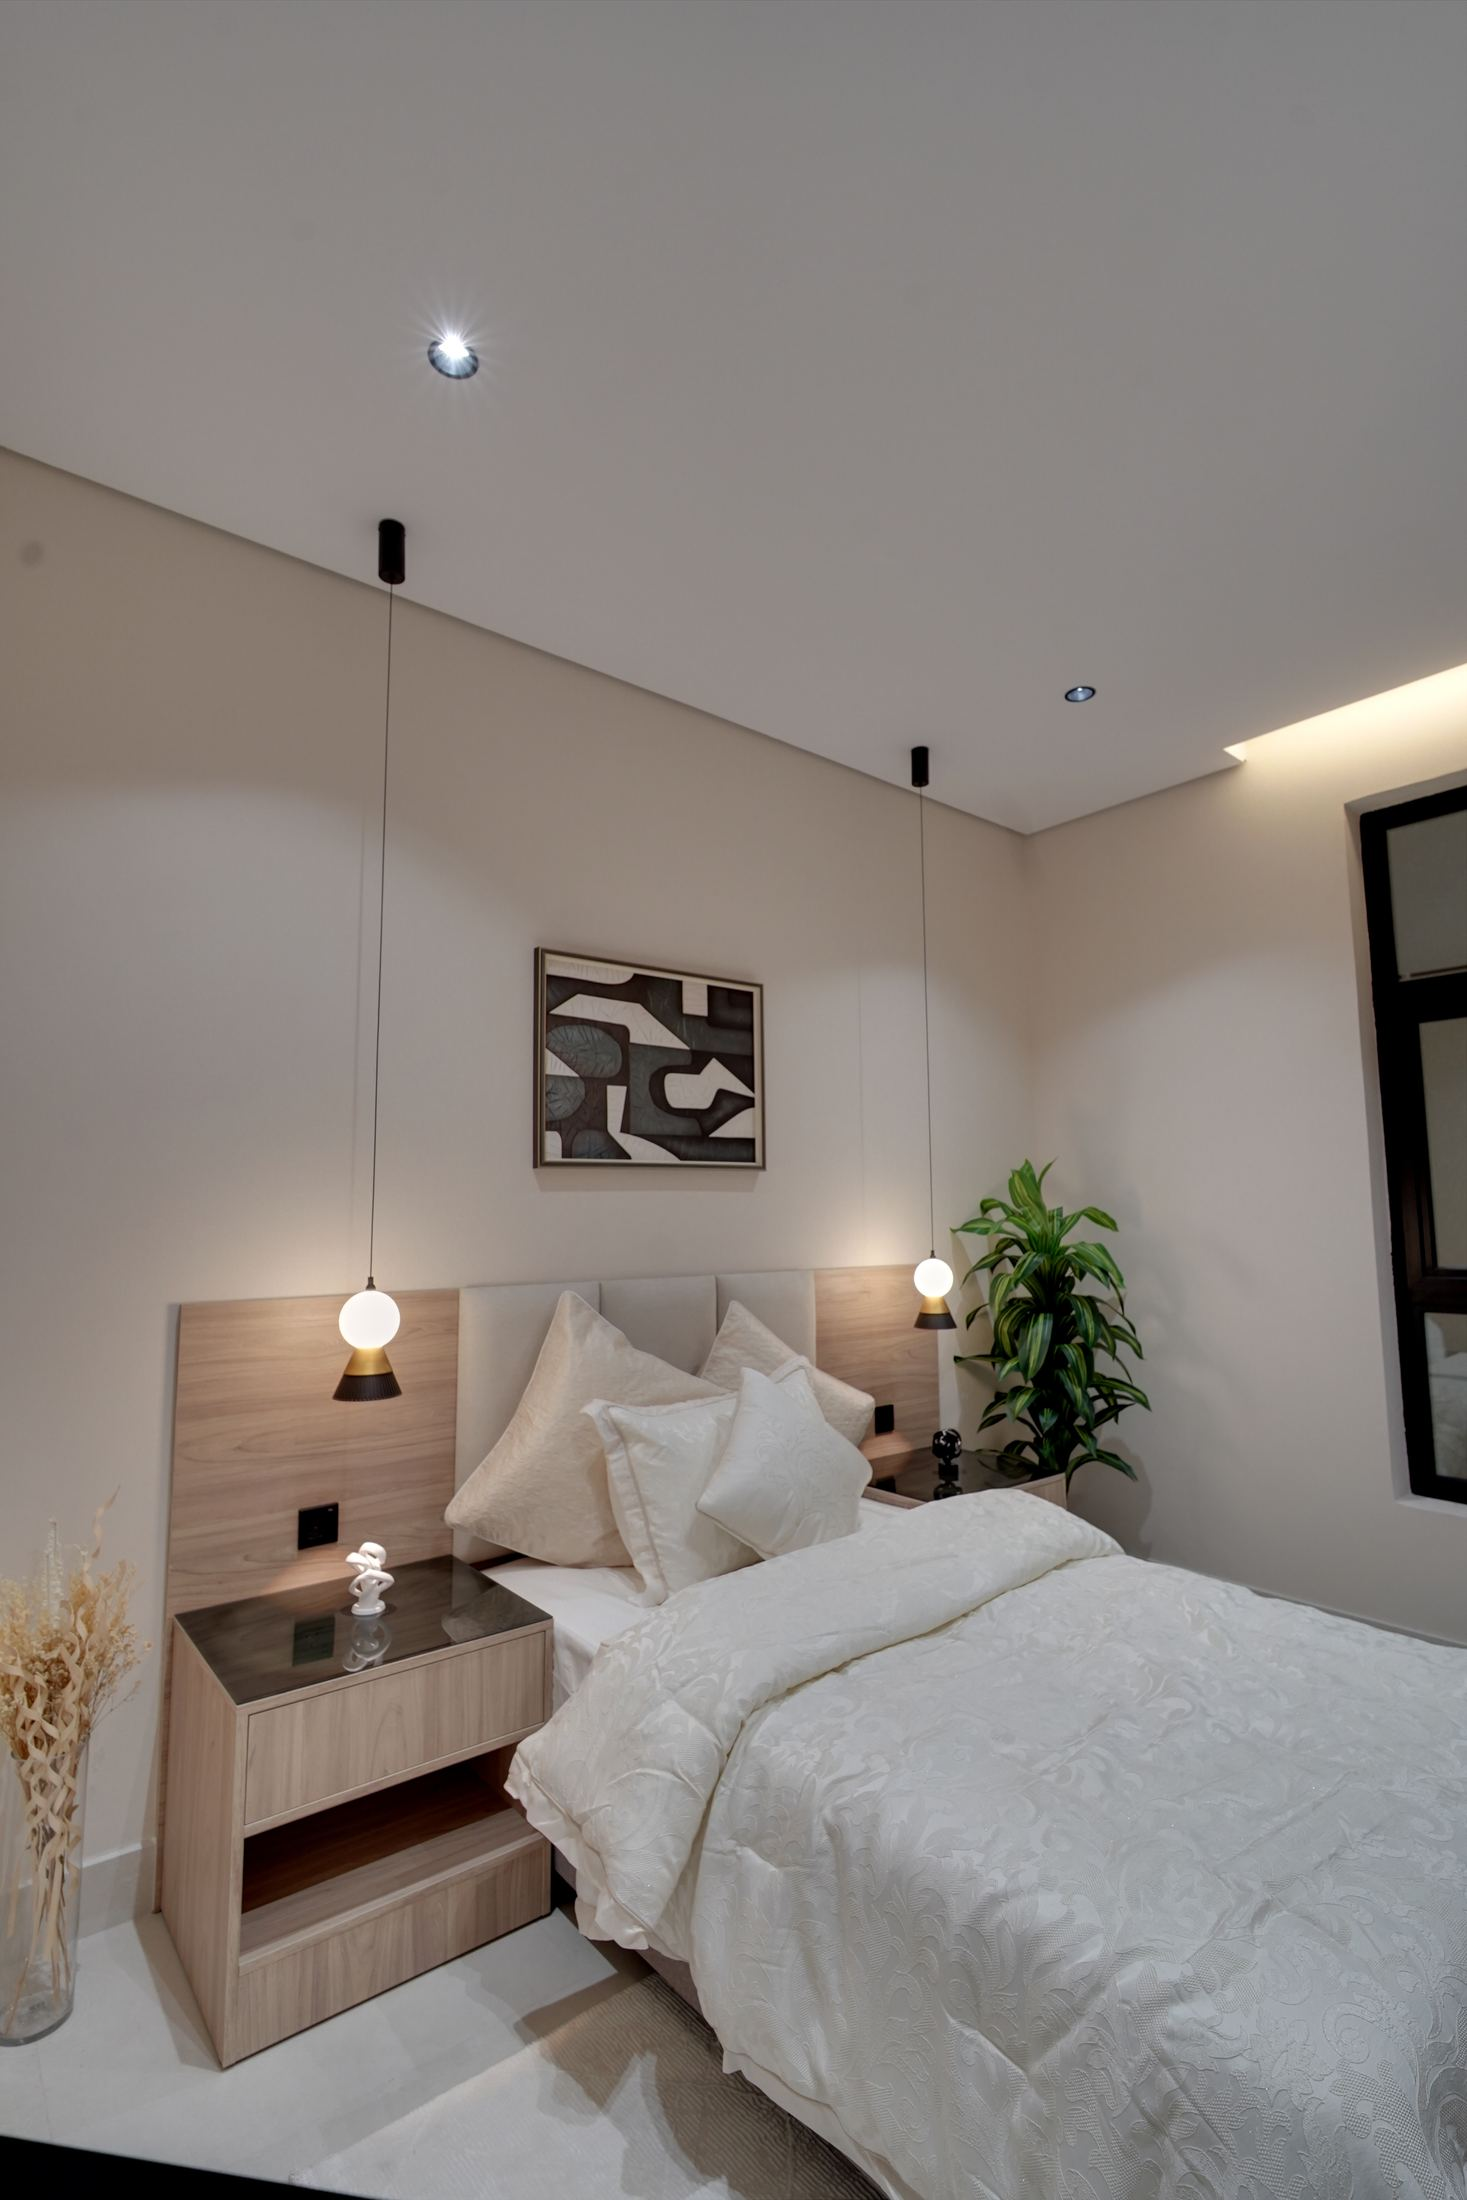
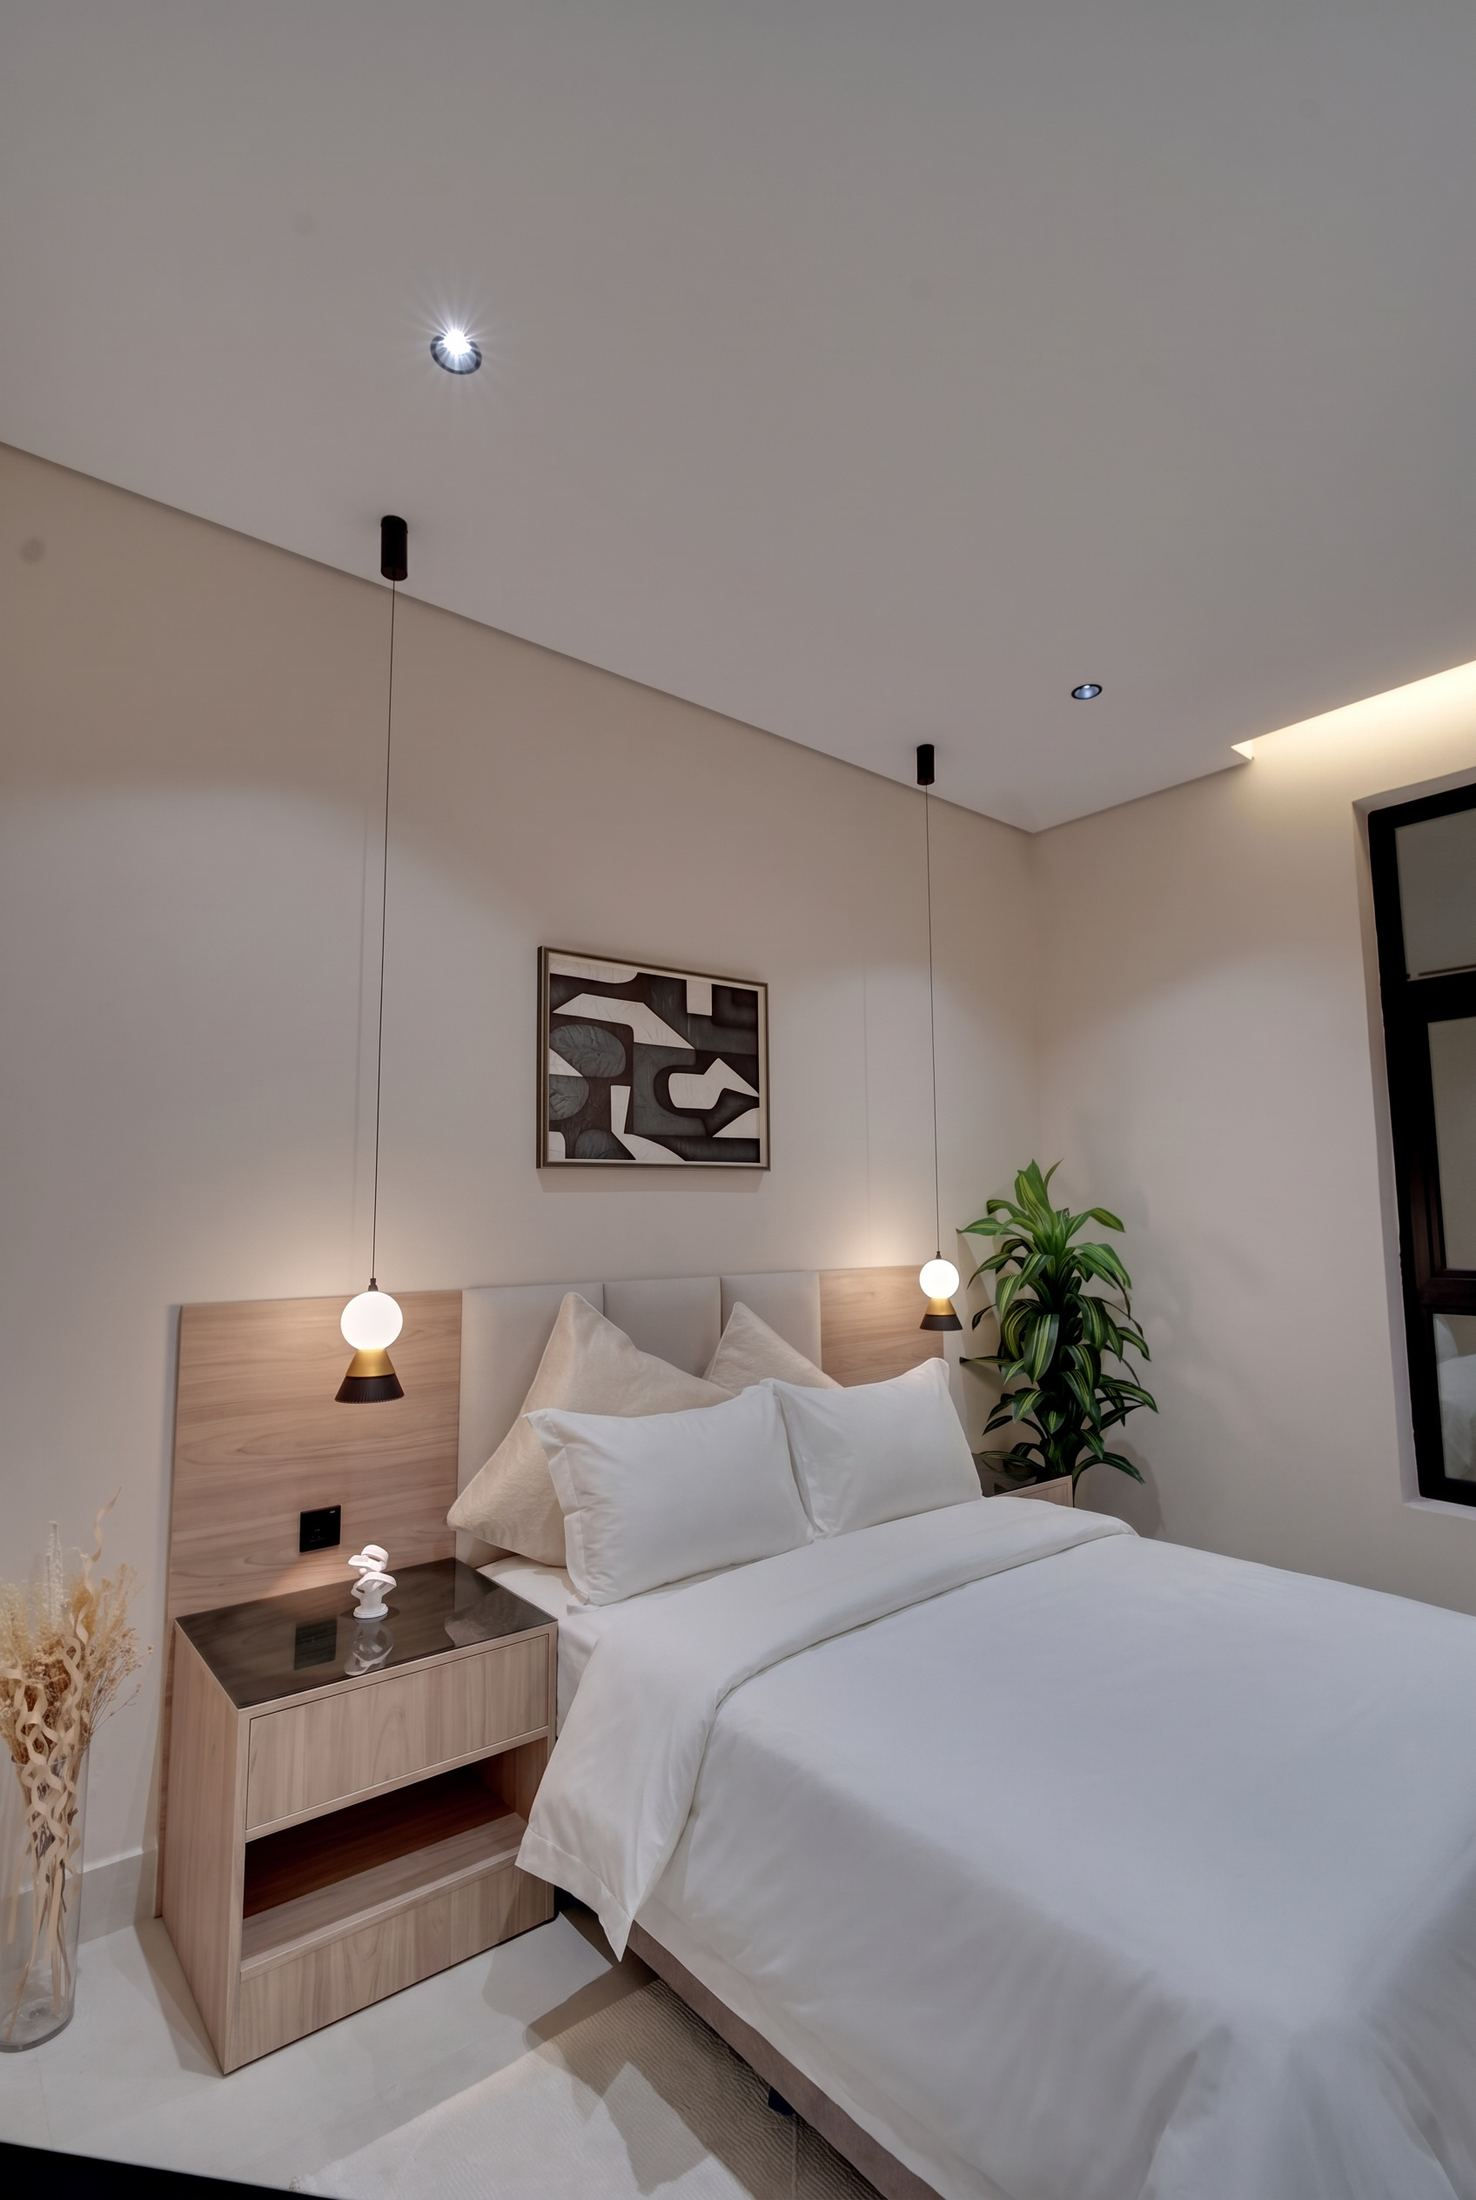
Showcase: retouched bedrooms, reflections removed, duplicate close-up dropped
Claude-Session: https://claude.ai/code/session_01J13UHcxeJzmpejdaqPJTwN

diff --git a/joharat-taibah/index.html b/joharat-taibah/index.html
@@ -489,8 +489,8 @@ html[data-lang="en"] .film-copy .versions{direction:rtl}
       <div class="fr"><img src="img/2216-m.jpg" srcset="img/2216-m.jpg 800w, img/2216.jpg 1467w" sizes="(max-width:760px) 100vw, 60vh" width="1467" height="2200" alt="تفاصيل" loading="lazy" decoding="async"></div>
       <figcaption><span class="c">In Close-up</span><span class="ar">تفاصيل</span></figcaption>
     </figure>
-    <div class="thumbs rv"><button class="th" type="button" data-open="2222" aria-label="تفاصيل"><img src="img/2222-m.jpg" width="800" height="1200" alt="" loading="lazy" decoding="async"></button><button class="th" type="button" data-open="2219" aria-label="تفاصيل"><img src="img/2219-m.jpg" width="800" height="1200" alt="" loading="lazy" decoding="async"></button><button class="th" type="button" data-open="2225" aria-label="تفاصيل"><img src="img/2225-m.jpg" width="800" height="1200" alt="" loading="lazy" decoding="async"></button><button class="th" type="button" data-open="2228" aria-label="تفاصيل"><img src="img/2228-m.jpg" width="800" height="1200" alt="" loading="lazy" decoding="async"></button><button class="th" type="button" data-open="2234" aria-label="تفاصيل"><img src="img/2234-m.jpg" width="800" height="1200" alt="" loading="lazy" decoding="async"></button><button class="th" type="button" data-open="g:closeup" aria-label="تفاصيل"><img src="img/2237-m.jpg" width="800" height="1200" alt="" loading="lazy" decoding="async"><span class="more">+12</span></button></div>
-    <button class="viewall rv" type="button" data-open="g:closeup"><span class="t-ar">للتكملة اضغط هنا · عرض كل الصور (18)</span><span class="t-en lat">View all 18 photographs</span><svg viewBox="0 0 9 14" aria-hidden="true"><path d="M4.5 0v13M.5 9l4 4 4-4"/></svg></button>
+    <div class="thumbs rv"><button class="th" type="button" data-open="2222" aria-label="تفاصيل"><img src="img/2222-m.jpg" width="800" height="1200" alt="" loading="lazy" decoding="async"></button><button class="th" type="button" data-open="2219" aria-label="تفاصيل"><img src="img/2219-m.jpg" width="800" height="1200" alt="" loading="lazy" decoding="async"></button><button class="th" type="button" data-open="2225" aria-label="تفاصيل"><img src="img/2225-m.jpg" width="800" height="1200" alt="" loading="lazy" decoding="async"></button><button class="th" type="button" data-open="2228" aria-label="تفاصيل"><img src="img/2228-m.jpg" width="800" height="1200" alt="" loading="lazy" decoding="async"></button><button class="th" type="button" data-open="2234" aria-label="تفاصيل"><img src="img/2234-m.jpg" width="800" height="1200" alt="" loading="lazy" decoding="async"></button><button class="th" type="button" data-open="g:closeup" aria-label="تفاصيل"><img src="img/2237-m.jpg" width="800" height="1200" alt="" loading="lazy" decoding="async"><span class="more">+11</span></button></div>
+    <button class="viewall rv" type="button" data-open="g:closeup"><span class="t-ar">للتكملة اضغط هنا · عرض كل الصور (17)</span><span class="t-en lat">View all 17 photographs</span><svg viewBox="0 0 9 14" aria-hidden="true"><path d="M4.5 0v13M.5 9l4 4 4-4"/></svg></button>
   </div>
   <div class="ed pause">
     <div class="tx rv">
@@ -665,7 +665,7 @@ html[data-lang="en"] .film-copy .versions{direction:rtl}
 </div>
 
 <script>
-const GALLERY=[{"id": "arrival", "en": "The Arrival", "ar": "الوصول", "items": [[2447, "The Ensemble", "الواجهات ليلًا"], [2027, "The Arrival", "المدخل"], [2435, "The Street", "الواجهة"], [2006, "Night Entrance", "المدخل ليلًا"], [2012, "The Gate", "البوابة"], [2021, "The Front Garden", "الحديقة الأمامية"], [2030, "Outdoor Seating", "الجلسة الخارجية"]]}, {"id": "living", "en": "Living Spaces", "ar": "المعيشة", "items": [[2072, "The Guest Lounge", "مجلس الضيوف"], [2417, "Dining", "غرفة الطعام"], [2063, "Living", "الصالة"], [2195, "Upper Lounge", "الجلسة العلوية"], [2036, "Set for Gathering", "سفرة الطعام"], [2078, "The Dining Room", "غرفة الطعام"], [2198, "The Family Lounge", "جلسة العائلة"], [2192, "A Quiet Corner", "ركن هادئ"], [2231, "Soft Textures", "خامات ناعمة"], [2258, "The Media Wall", "جدار التلفاز"], [2261, "Evening Light", "إضاءة المساء"], [2252, "Art & Light", "الفن والضوء"], [2249, "Indoor Greenery", "خضرة داخلية"], [2285, "The Kitchen", "المطبخ"], [2306, "Warm Wood", "لمسات خشبية"], [2183, "The Rooftop", "السطح"]]}, {"id": "private", "en": "Private Quarters", "ar": "الخصوصية", "items": [[2105, "Light & Reflection", "الضوء والانعكاس"], [2159, "The Bedrooms", "غرف النوم"], [2096, "A Restful Bedroom", "غرفة نوم"], [2099, "Calm Tones", "ألوان هادئة"], [2132, "The Bathrooms", "الحمّامات"], [2177, "The Laundry", "غرفة الغسيل"]]}, {"id": "closeup", "en": "In Close-up", "ar": "التفاصيل", "items": [[2216, "In Close-up", "تفاصيل"], [2222, "In Close-up", "تفاصيل"], [2219, "In Close-up", "تفاصيل"], [2225, "In Close-up", "تفاصيل"], [2228, "In Close-up", "تفاصيل"], [2234, "In Close-up", "تفاصيل"], [2237, "In Close-up", "تفاصيل"], [2243, "In Close-up", "تفاصيل"], [2246, "In Close-up", "تفاصيل"], [2264, "In Close-up", "تفاصيل"], [2267, "In Close-up", "تفاصيل"], [2270, "In Close-up", "تفاصيل"], [2279, "In Close-up", "تفاصيل"], [2282, "In Close-up", "تفاصيل"], [2291, "In Close-up", "تفاصيل"], [2312, "In Close-up", "تفاصيل"], [2369, "In Close-up", "تفاصيل"], [2396, "In Close-up", "تفاصيل"]]}, {"id": "details", "en": "Architectural Details", "ar": "التفاصيل المعمارية", "items": [[2048, "The Inner Garden", "الحديقة الداخلية"], [2051, "Patterned Screens", "السواتر المنقوشة"], [2210, "Glass & Light", "الزجاج والضوء"], [2135, "Quiet Bedrooms", "غرف النوم"], [2120, "Glass-fronted Wardrobes", "خزائن بواجهات زجاجية"], [2126, "Backlit Mirrors", "الحمّامات"], [2294, "The Kitchen", "المطبخ"], [2303, "Kitchen Detail", "تفاصيل المطبخ"], [2318, "Private Elevator", "المصعد الخاص"], [2201, "Private Gym", "النادي الرياضي"]]}];
+const GALLERY=[{"id": "arrival", "en": "The Arrival", "ar": "الوصول", "items": [[2447, "The Ensemble", "الواجهات ليلًا"], [2027, "The Arrival", "المدخل"], [2435, "The Street", "الواجهة"], [2006, "Night Entrance", "المدخل ليلًا"], [2012, "The Gate", "البوابة"], [2021, "The Front Garden", "الحديقة الأمامية"], [2030, "Outdoor Seating", "الجلسة الخارجية"]]}, {"id": "living", "en": "Living Spaces", "ar": "المعيشة", "items": [[2072, "The Guest Lounge", "مجلس الضيوف"], [2417, "Dining", "غرفة الطعام"], [2063, "Living", "الصالة"], [2195, "Upper Lounge", "الجلسة العلوية"], [2036, "Set for Gathering", "سفرة الطعام"], [2078, "The Dining Room", "غرفة الطعام"], [2198, "The Family Lounge", "جلسة العائلة"], [2192, "A Quiet Corner", "ركن هادئ"], [2231, "Soft Textures", "خامات ناعمة"], [2258, "The Media Wall", "جدار التلفاز"], [2261, "Evening Light", "إضاءة المساء"], [2252, "Art & Light", "الفن والضوء"], [2249, "Indoor Greenery", "خضرة داخلية"], [2285, "The Kitchen", "المطبخ"], [2306, "Warm Wood", "لمسات خشبية"], [2183, "The Rooftop", "السطح"]]}, {"id": "private", "en": "Private Quarters", "ar": "الخصوصية", "items": [[2105, "Light & Reflection", "الضوء والانعكاس"], [2159, "The Bedrooms", "غرف النوم"], [2096, "A Restful Bedroom", "غرفة نوم"], [2099, "Calm Tones", "ألوان هادئة"], [2132, "The Bathrooms", "الحمّامات"], [2177, "The Laundry", "غرفة الغسيل"]]}, {"id": "closeup", "en": "In Close-up", "ar": "التفاصيل", "items": [[2216, "In Close-up", "تفاصيل"], [2222, "In Close-up", "تفاصيل"], [2219, "In Close-up", "تفاصيل"], [2225, "In Close-up", "تفاصيل"], [2228, "In Close-up", "تفاصيل"], [2234, "In Close-up", "تفاصيل"], [2237, "In Close-up", "تفاصيل"], [2246, "In Close-up", "تفاصيل"], [2264, "In Close-up", "تفاصيل"], [2267, "In Close-up", "تفاصيل"], [2270, "In Close-up", "تفاصيل"], [2279, "In Close-up", "تفاصيل"], [2282, "In Close-up", "تفاصيل"], [2291, "In Close-up", "تفاصيل"], [2312, "In Close-up", "تفاصيل"], [2369, "In Close-up", "تفاصيل"], [2396, "In Close-up", "تفاصيل"]]}, {"id": "details", "en": "Architectural Details", "ar": "التفاصيل المعمارية", "items": [[2048, "The Inner Garden", "الحديقة الداخلية"], [2051, "Patterned Screens", "السواتر المنقوشة"], [2210, "Glass & Light", "الزجاج والضوء"], [2135, "Quiet Bedrooms", "غرف النوم"], [2120, "Glass-fronted Wardrobes", "خزائن بواجهات زجاجية"], [2126, "Backlit Mirrors", "الحمّامات"], [2294, "The Kitchen", "المطبخ"], [2303, "Kitchen Detail", "تفاصيل المطبخ"], [2318, "Private Elevator", "المصعد الخاص"], [2201, "Private Gym", "النادي الرياضي"]]}];
 (()=>{
 const $=s=>document.querySelector(s),$$=s=>[...document.querySelectorAll(s)];
 const root=document.documentElement;
